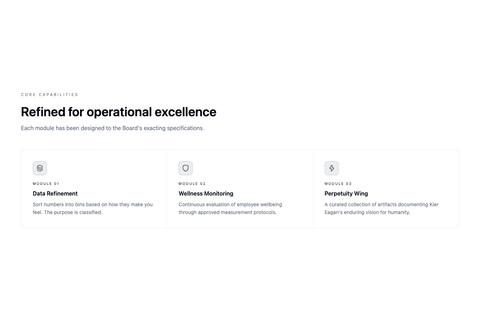
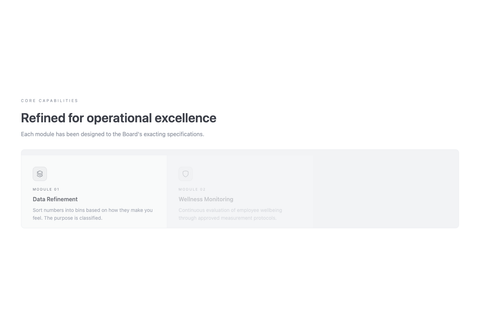
fix(forms): address code review — shared types, a11y, animations, UX
- Extract FormFieldBlock and FormConfig to shared types.ts
- Add aria-label to section element (a11y)
- Add AnimateIn wrapper for useInView entrance animations
- Fix checkbox: render label inline next to checkbox, not above
- Fix radio: prefix IDs with field name to prevent collisions
- Add TODO for message block rendering
- Remove duplicate type definitions from field-mapper and form-renderer

diff --git a/src/components/blocks/form-embed/field-mapper.tsx b/src/components/blocks/form-embed/field-mapper.tsx
@@ -19,18 +19,7 @@ import {
 } from "@/components/ui/select";
 import { Textarea } from "@/components/ui/textarea";
 import { cn } from "@/core/lib/utils";
-
-interface FormFieldBlock {
-  blockType: string;
-  defaultValue?: string;
-  label?: string;
-  message?: unknown;
-  name?: string;
-  options?: { label: string; value: string }[];
-  placeholder?: string;
-  required?: boolean;
-  width?: string;
-}
+import type { FormFieldBlock } from "./types";
 
 interface FieldMapperProps {
   error?: string;
@@ -55,11 +44,42 @@ export function FormField({ field, value, onChange, error }: FieldMapperProps) {
   const { blockType, name, label, required, placeholder } = field;
   const fieldName = name ?? "";
 
+  // TODO: Render message blocks as inline rich text instructions within the form
   if (blockType === "message") {
     return null;
   }
 
   const handleChange = (val: string) => onChange(fieldName, val);
+
+  // Checkbox: render label inline next to the checkbox
+  if (blockType === "checkbox") {
+    return (
+      <div className={cn(widthToClass(field.width))}>
+        <Field>
+          <FieldContent>
+            <div className="flex items-center gap-2">
+              <Checkbox
+                checked={value === "true"}
+                id={fieldName}
+                onCheckedChange={(checked) =>
+                  handleChange(checked ? "true" : "false")
+                }
+              />
+              {label && (
+                <Label htmlFor={fieldName}>
+                  {label}
+                  {required && (
+                    <span className="ml-0.5 text-destructive">*</span>
+                  )}
+                </Label>
+              )}
+            </div>
+          </FieldContent>
+          {error && <FieldError>{error}</FieldError>}
+        </Field>
+      </div>
+    );
+  }
 
   return (
     <div className={cn(widthToClass(field.width))}>
@@ -72,6 +92,7 @@ export function FormField({ field, value, onChange, error }: FieldMapperProps) {
         )}
         <FieldContent>
           {renderInput(blockType, {
+            fieldName,
             value,
             onChange: handleChange,
             placeholder,
@@ -89,6 +110,7 @@ export function FormField({ field, value, onChange, error }: FieldMapperProps) {
 function renderInput(
   blockType: string,
   props: {
+    fieldName: string;
     value: string;
     onChange: (val: string) => void;
     placeholder?: string;
@@ -166,24 +188,16 @@ function renderInput(
     case "radio":
       return (
         <RadioGroup onValueChange={props.onChange} value={props.value}>
-          {(props.options ?? []).map((opt) => (
-            <div className="flex items-center gap-2" key={opt.value}>
-              <RadioGroupItem id={opt.value} value={opt.value} />
-              <Label htmlFor={opt.value}>{opt.label}</Label>
-            </div>
-          ))}
+          {(props.options ?? []).map((opt) => {
+            const radioId = `${props.fieldName}-${opt.value}`;
+            return (
+              <div className="flex items-center gap-2" key={opt.value}>
+                <RadioGroupItem id={radioId} value={opt.value} />
+                <Label htmlFor={radioId}>{opt.label}</Label>
+              </div>
+            );
+          })}
         </RadioGroup>
-      );
-    case "checkbox":
-      return (
-        <div className="flex items-center gap-2">
-          <Checkbox
-            checked={props.value === "true"}
-            onCheckedChange={(checked) =>
-              props.onChange(checked ? "true" : "false")
-            }
-          />
-        </div>
       );
     default:
       return (

diff --git a/src/components/blocks/form-embed/form-embed.tsx b/src/components/blocks/form-embed/form-embed.tsx
@@ -1,17 +1,10 @@
 import type { ReactNode } from "react";
 import { RichText } from "@/components/features/rich-text";
 import type { FormEmbedBlock as FormEmbedBlockType } from "@/types/block-types";
+import { AnimateIn } from "./animate-in";
 import { FormRenderer } from "./form-renderer";
 import { MapPanel } from "./map-panel";
-
-interface FormConfig {
-  confirmationMessage?: Record<string, unknown> | null;
-  confirmationType?: "message" | "redirect" | null;
-  fields?: unknown[] | null;
-  id: number;
-  redirect?: { url?: string } | null;
-  submitButtonLabel?: string | null;
-}
+import type { FormConfig } from "./types";
 
 export function FormEmbed(props: FormEmbedBlockType) {
   const {
@@ -36,7 +29,7 @@ export function FormEmbed(props: FormEmbedBlockType) {
   ) : undefined;
 
   return (
-    <section className="w-full">
+    <section aria-label={heading || "Form"} className="w-full">
       <div className="mx-auto max-w-7xl px-4 lg:px-6">
         {variant === "stacked" && (
           <StackedLayout
@@ -107,13 +100,13 @@ function StackedLayout({
 }) {
   return (
     <div className="flex flex-col items-center gap-8 text-center">
-      <div className="flex max-w-2xl flex-col gap-4">
+      <AnimateIn className="flex max-w-2xl flex-col gap-4">
         <SectionHeading heading={heading} />
         <SectionContent content={content as Record<string, unknown>} />
-      </div>
-      <div className="w-full max-w-xl text-left">
+      </AnimateIn>
+      <AnimateIn className="w-full max-w-xl text-left" delay={0.1}>
         <FormRenderer confirmationNode={confirmationNode} form={form} />
-      </div>
+      </AnimateIn>
     </div>
   );
 }
@@ -131,13 +124,13 @@ function SplitLayout({
 }) {
   return (
     <div className="grid gap-8 lg:grid-cols-2 lg:gap-16">
-      <div className="flex flex-col gap-4">
+      <AnimateIn className="flex flex-col gap-4">
         <SectionHeading heading={heading} />
         <SectionContent content={content as Record<string, unknown>} />
-      </div>
-      <div>
+      </AnimateIn>
+      <AnimateIn delay={0.15}>
         <FormRenderer confirmationNode={confirmationNode} form={form} />
-      </div>
+      </AnimateIn>
     </div>
   );
 }
@@ -164,21 +157,23 @@ function MapLayout({
   return (
     <div className="grid gap-8 lg:grid-cols-2 lg:gap-16">
       <div className="flex flex-col gap-6">
-        <div className="flex flex-col gap-4">
+        <AnimateIn className="flex flex-col gap-4">
           <SectionHeading heading={heading} />
           <SectionContent content={content as Record<string, unknown>} />
-        </div>
-        <FormRenderer confirmationNode={confirmationNode} form={form} />
+        </AnimateIn>
+        <AnimateIn delay={0.1}>
+          <FormRenderer confirmationNode={confirmationNode} form={form} />
+        </AnimateIn>
       </div>
       {hasMap && (
-        <div className="order-last">
+        <AnimateIn className="order-last" delay={0.2}>
           <MapPanel
             latitude={Number(mapCenter.latitude)}
             longitude={Number(mapCenter.longitude)}
             markerLabel={mapMarkerLabel}
             zoom={mapZoom ?? 14}
           />
-        </div>
+        </AnimateIn>
       )}
     </div>
   );

diff --git a/src/components/blocks/form-embed/form-renderer.tsx b/src/components/blocks/form-embed/form-renderer.tsx
@@ -5,27 +5,7 @@ import type { ReactNode } from "react";
 import { useCallback, useState } from "react";
 import { Button } from "@/components/ui/button";
 import { FormField } from "./field-mapper";
-
-interface FormFieldBlock {
-  blockType: string;
-  defaultValue?: string;
-  label?: string;
-  message?: unknown;
-  name?: string;
-  options?: { label: string; value: string }[];
-  placeholder?: string;
-  required?: boolean;
-  width?: string;
-}
-
-interface FormConfig {
-  confirmationMessage?: Record<string, unknown> | null;
-  confirmationType?: "message" | "redirect" | null;
-  fields?: FormFieldBlock[] | null;
-  id: number;
-  redirect?: { url?: string } | null;
-  submitButtonLabel?: string | null;
-}
+import type { FormConfig } from "./types";
 
 interface FormRendererProps {
   /** Pre-rendered confirmation message (server component RichText passed as prop) */

diff --git a/src/components/blocks/form-embed/animate-in.tsx b/src/components/blocks/form-embed/animate-in.tsx
@@ -1,0 +1,29 @@
+"use client";
+
+import { motion, useInView } from "motion/react";
+import { type ReactNode, useRef } from "react";
+
+const EASE = [0.16, 1, 0.3, 1] as const;
+
+interface AnimateInProps {
+  children: ReactNode;
+  className?: string;
+  delay?: number;
+}
+
+export function AnimateIn({ children, className, delay = 0 }: AnimateInProps) {
+  const ref = useRef<HTMLDivElement>(null);
+  const inView = useInView(ref, { once: true, margin: "-100px" });
+
+  return (
+    <motion.div
+      animate={inView ? { opacity: 1, y: 0 } : {}}
+      className={className}
+      initial={{ opacity: 0, y: 24 }}
+      ref={ref}
+      transition={{ duration: 0.8, delay, ease: EASE }}
+    >
+      {children}
+    </motion.div>
+  );
+}

diff --git a/src/components/blocks/form-embed/types.ts b/src/components/blocks/form-embed/types.ts
@@ -1,0 +1,22 @@
+/** Shared types for the FormEmbed block components. */
+
+export interface FormFieldBlock {
+  blockType: string;
+  defaultValue?: string;
+  label?: string;
+  message?: unknown;
+  name?: string;
+  options?: { label: string; value: string }[];
+  placeholder?: string;
+  required?: boolean;
+  width?: string;
+}
+
+export interface FormConfig {
+  confirmationMessage?: Record<string, unknown> | null;
+  confirmationType?: "message" | "redirect" | null;
+  fields?: FormFieldBlock[] | null;
+  id: number;
+  redirect?: { url?: string } | null;
+  submitButtonLabel?: string | null;
+}
